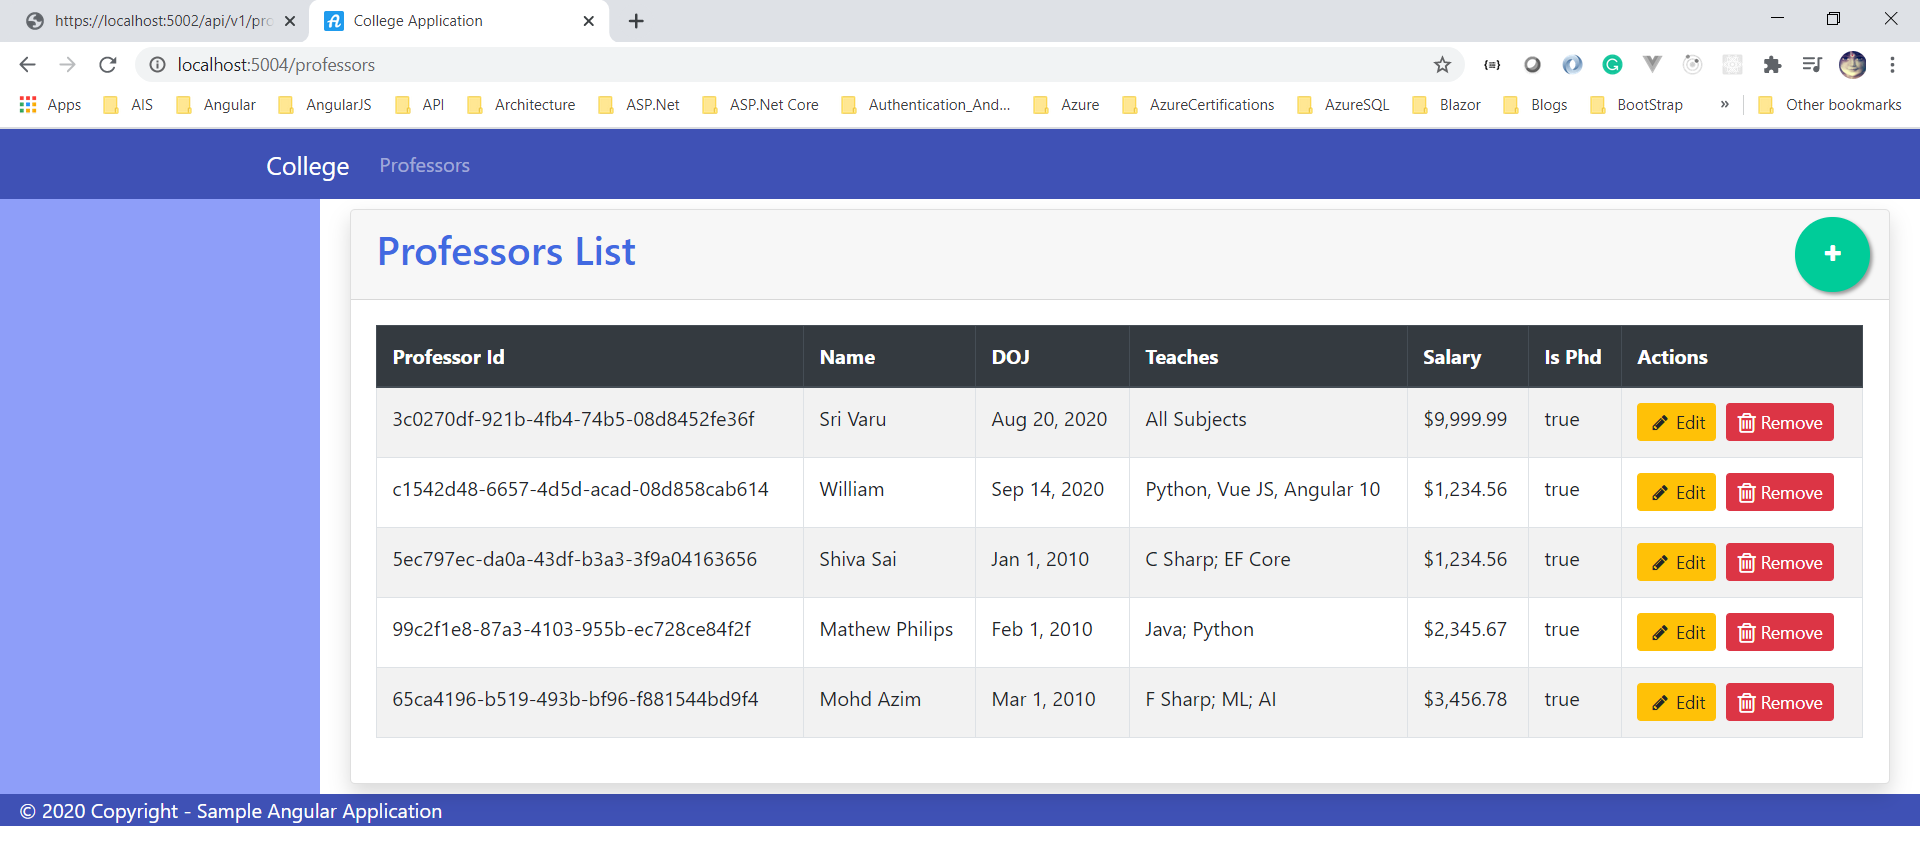
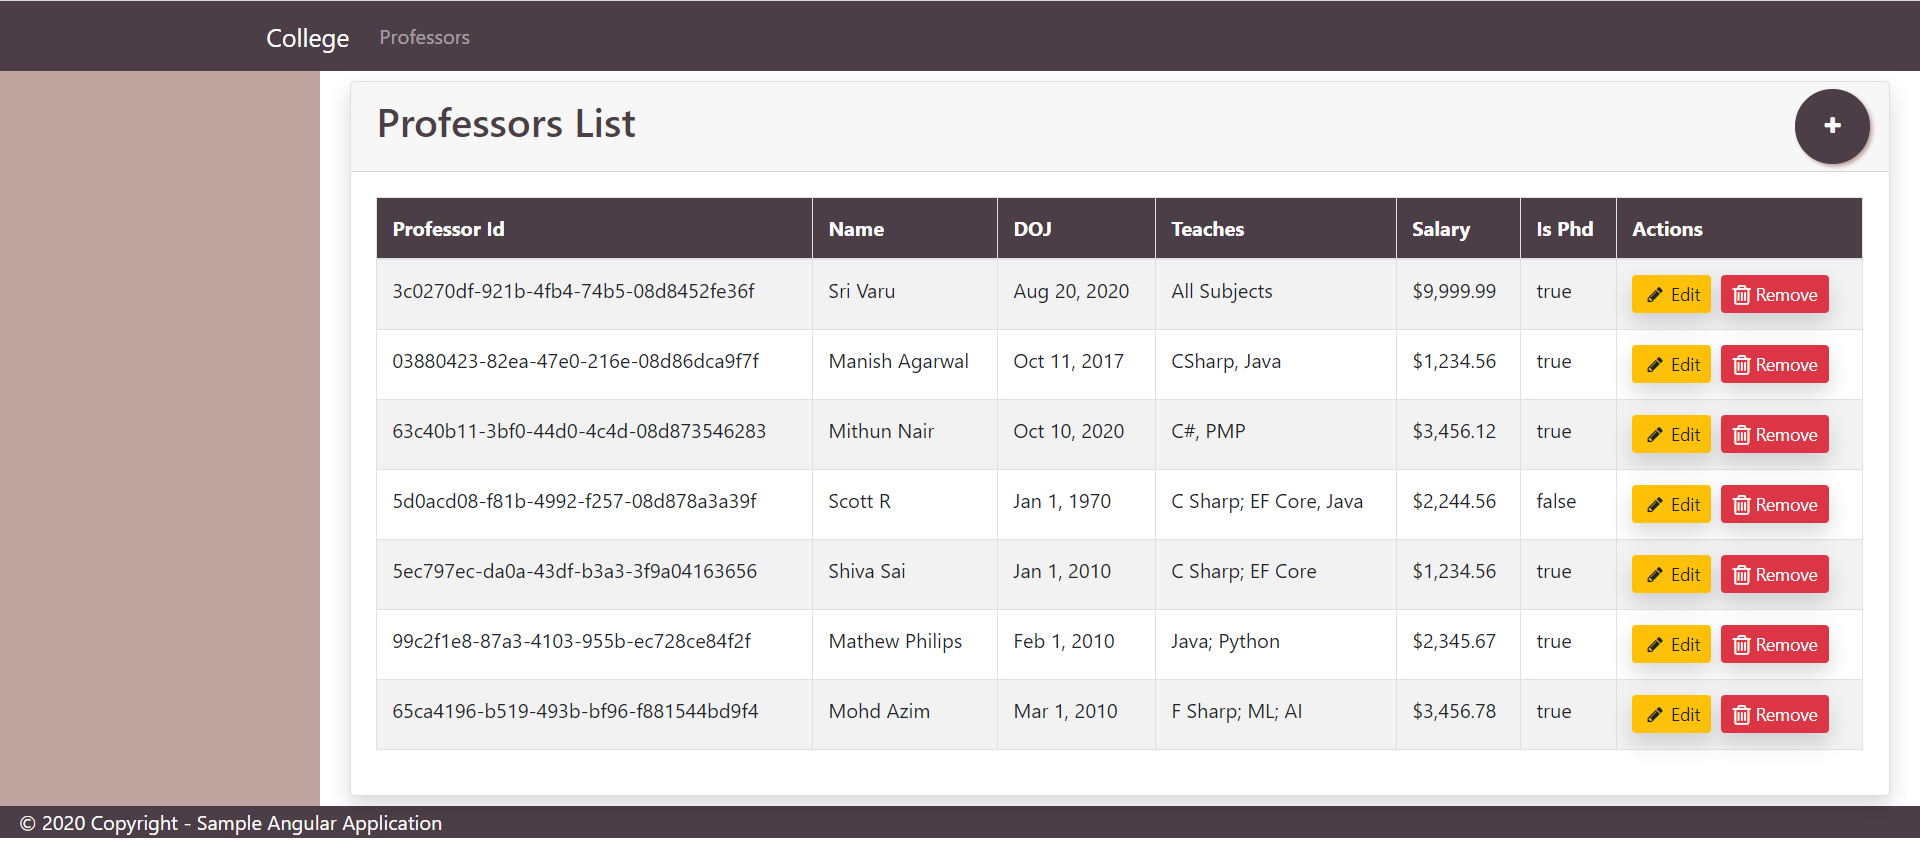
Few Changes

diff --git a/Projects/fullstack-.netcore-angular/Source/3college-webapp/src/styles.css b/Projects/fullstack-.netcore-angular/Source/3college-webapp/src/styles.css
@@ -10,21 +10,21 @@
 }
 
 .top-navbar-color {
-  background: #154360;
+  background: #4C3E46;
   color: white;
 }
 
 .bg-sidebar {
-  background:#0489f554;
+  background:#C0A49F;
   color: white;
 }
 
 .PageTitle {
-  color: #007bff;
+  color: #4C3E46;
 }
 
 footer {
-  background:  #154360;
+  background:  #4C3E46;
   color: white;
   padding: 1px;
   bottom: 0;
@@ -37,11 +37,11 @@ footer {
 	height:60px;
   right:40px;
   top: 70Px;
-	background-color:#154360;
+	background-color:#4C3E46;
 	color: white;
 	border-radius:50px;
 	text-align:center;
-	box-shadow: 2px 2px 3px #049ff38f;
+	box-shadow: 2px 2px 3px #C0A49F;
 }
 
 .float-margintop{
@@ -57,6 +57,11 @@ a:hover{
 }
 
 .btn-maincolor {
-	background-color: #154360!important;
+	background-color: #4C3E46!important;
+	color: white!important;
+}
+
+.table-header-dark{
+	background-color: #4C3E46!important;
 	color: white!important;
 }

diff --git a/Projects/fullstack-.netcore-angular/Source/3college-webapp/src/app/components/professors-list/professors-list.component.html b/Projects/fullstack-.netcore-angular/Source/3college-webapp/src/app/components/professors-list/professors-list.component.html
@@ -9,7 +9,7 @@
       </a>
     </div>
     <table class='table table-striped table-bordered' aria-labelledby="tableLabel" *ngIf="professorsList">
-      <thead class="thead-dark">
+      <thead class="table-header-dark">
         <tr>
           <th>Professor Id</th>
           <th>Name</th>

diff --git a/Projects/README.md b/Projects/README.md
@@ -6,13 +6,15 @@
 
 ## 3. [books-store MERN stack Application](https://github.com/vishipayyallore/mini-projects-2020/tree/master/Projects/book-store-mern)
 
+## 4. [college progessors .Net Core and Angular 10 Full stack Application](https://github.com/vishipayyallore/mini-projects-2020/tree/master/Projects/fullstack-.netcore-angular)
+
 *************************************************************************************************************************************
 
 ## Application Look and Feel
 
 ### 1. [MEAN stack Application](https://github.com/vishipayyallore/mini-projects-2020/tree/master/Projects/books-store)
 
-![Web APP Dashboard|150x150](./books-store/Documentation/Images/BooksList.PNG)
+![Web APP List View|150x150](./books-store/Documentation/Images/BooksList.PNG)
 
 *************************************************************************************************************************************
 
@@ -24,4 +26,10 @@
 
 ### 3. books-store **MERN** stack Application
 
-![Node JS Output|150x150](./book-store-mern/Documentation/Images/ListBooks.PNG)
+![Web APP List View|150x150](./book-store-mern/Documentation/Images/ListBooks.PNG)
+
+*************************************************************************************************************************************
+
+### 4. college progessors **.Net Core and Angular 10** stack Application
+
+![Web APP List View|150x150](./fullstack-.netcore-angular/Documentation/Images/AppListView.PNG)

diff --git a/ReadMe.md b/ReadMe.md
@@ -6,13 +6,15 @@
 
 ## 3. [books-store MERN stack Application](https://github.com/vishipayyallore/mini-projects-2020/tree/master/Projects/book-store-mern)
 
+## 4. [college progessors .Net Core and Angular 10 Full stack Application](https://github.com/vishipayyallore/mini-projects-2020/tree/master/Projects/fullstack-.netcore-angular)
+
 *************************************************************************************************************************************
 
 ## Application Look and Feel
 
 ### 1. books-store **MEAN** stack Application
 
-![Web APP Dashboard|150x150](./Projects/books-store/Documentation/Images/BooksList.PNG)
+![Web APP List View|150x150](./Projects/books-store/Documentation/Images/BooksList.PNG)
 
 *************************************************************************************************************************************
 
@@ -24,4 +26,10 @@
 
 ### 3. books-store **MERN** stack Application
 
-![Node JS Output|150x150](./Projects/book-store-mern/Documentation/Images/ListBooks.PNG)
+![Web APP List View|150x150](./Projects/book-store-mern/Documentation/Images/ListBooks.PNG)
+
+*************************************************************************************************************************************
+
+### 4. college progessors **.Net Core and Angular 10** stack Application
+
+![Web APP List View|150x150](./Projects/fullstack-.netcore-angular/Documentation/Images/AppListView.PNG)

diff --git a/Projects/fullstack-.netcore-angular/README.md b/Projects/fullstack-.netcore-angular/README.md
@@ -1,4 +1,4 @@
-# .Net Virtual Conference Speaker Event
+# .Net Core, SQL Server, Redis Cache, and Angular 10 Full Stack Application
 
 
 ## UI Look and Feel
